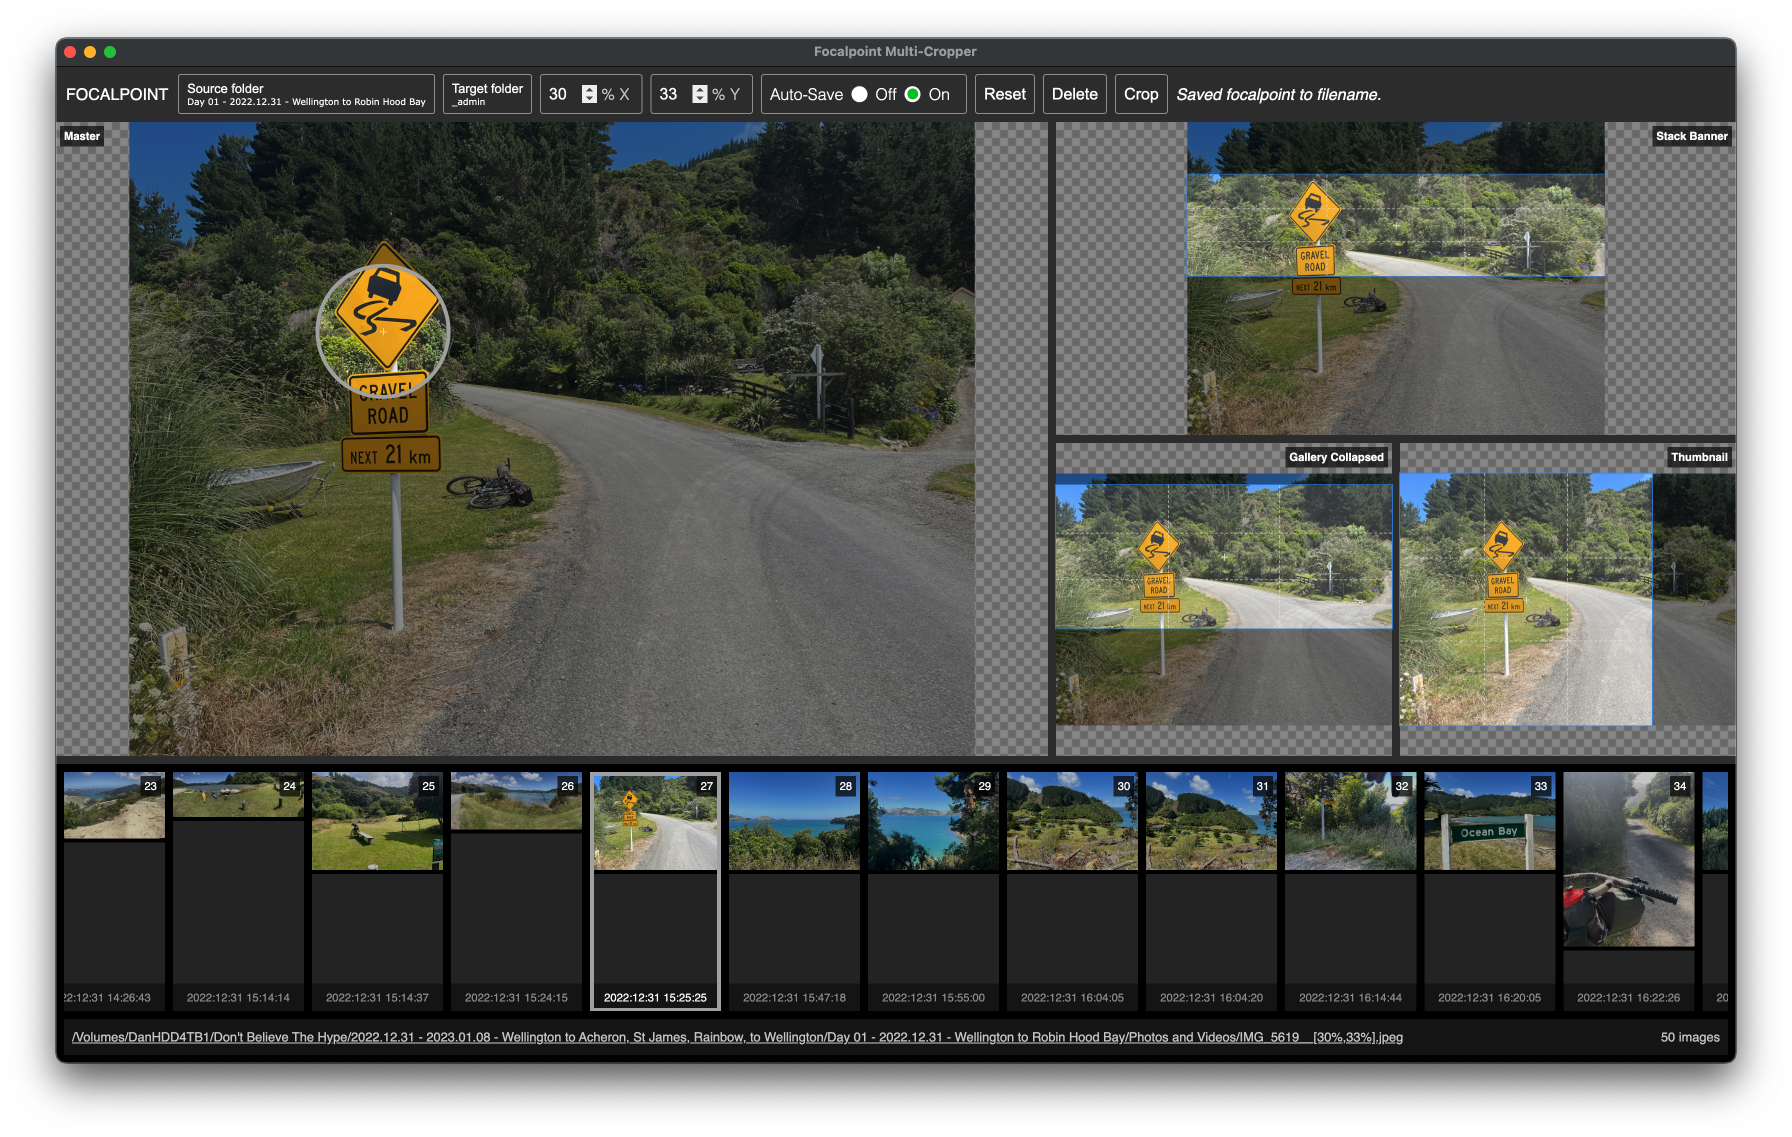
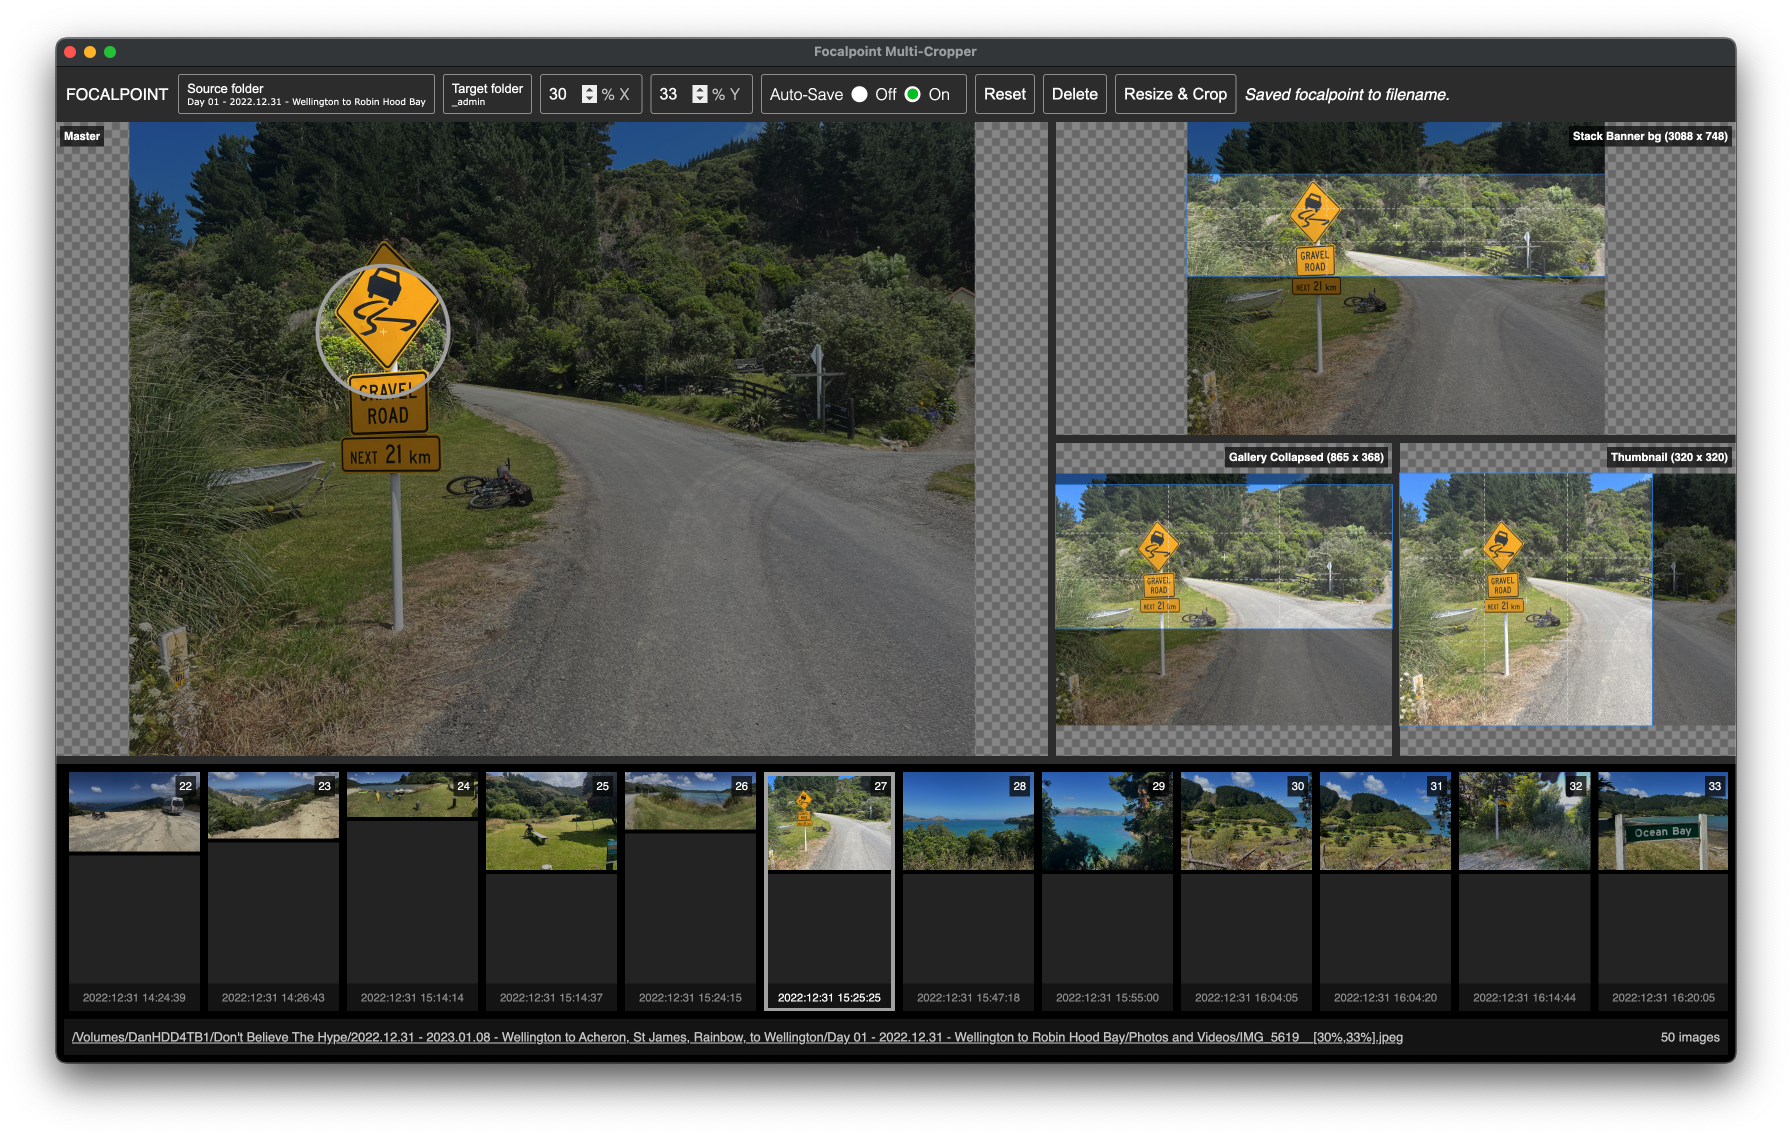
Add support for resize without crop/preview

diff --git a/index.html b/index.html
@@ -45,23 +45,86 @@
               </div> 
               <button type="button" class="control-action" id="reset-focalpoint" disabled>Reset</button>
               <button type="button" class="control-action" id="delete-focalpoint" disabled>Delete</button>
-              <button type="button" class="control-action" id="crop-image" disabled>Crop</button>
+              <button type="button" class="control-action" id="crop-image" disabled>Resize &amp; Crop</button>
             </div>
           </fieldset>
           <p class="control-status-msg" id="control-status"></p>
         </div>
         <div class="grid-croppers" id="croppers">
           <div class="img-container cropper-master">
-            <img alt="" class="cropper-image" data-cropper-aspect-ratio="1:1" data-is-cropper-master="true" data-cropper-label="Master">
+            <!-- image used with interactive cropbox -->
+            <img
+              alt=""
+              class="cropper-image"
+              data-cropper-role="master"
+              data-cropper-label="Master"
+            >
           </div>
-          <div class="img-container cropper-banner">
-            <img alt="" class="cropper-image" data-cropper-aspect-ratio="3088:748" data-cropper-export-suffix="stack-banner-bg" data-cropper-label="Stack Banner">
+          <div class="img-container cropper-banner-bg">
+            <!-- image will be resized to 3088 x whatever, then cropped to 3088 x 748 -->
+            <img
+              alt=""
+              class="cropper-image"
+              data-cropper-action="resizeAndCrop"
+              data-cropper-export-width="3088"
+              data-cropper-export-height="748"
+              data-cropper-export-suffix="stack-banner-bg"
+              data-cropper-label="Stack Banner bg"
+              data-cropper-role="slave"
+            >
+          </div>
+          <div class="img-container cropper-hide">
+            <!-- image will be resized to 320 x whatever -->
+            <img
+              alt=""
+              class="cropper-image"
+              data-cropper-action="resize"
+              data-cropper-export-width="320"
+              data-cropper-export-height="null"
+              data-cropper-export-suffix="stack-banner"
+              data-cropper-label="Stack Banner"
+              data-cropper-role="slave"
+            >
           </div>
           <div class="img-container cropper-collapsed">
-            <img alt="" class="cropper-image" data-cropper-aspect-ratio="865:368" data-cropper-export-suffix="gallery-collapsed" data-cropper-label="Gallery Collapsed">
+            <!-- image will be resized to 865 x whatever, then cropped to 865 x 368 -->
+            <img
+              alt=""
+              class="cropper-image"
+              data-cropper-action="resizeAndCrop"
+              data-cropper-export-width="865"
+              data-cropper-export-height="368"
+              data-cropper-export-suffix="gallery-collapsed"
+              data-cropper-label="Gallery Collapsed"
+              data-cropper-role="slave"
+            >
           </div>
-          <div class="img-container cropper-thumbnail">
-            <img alt="" class="cropper-image" data-cropper-aspect-ratio="320:320" data-cropper-export-suffix="gallery-thumbnail" data-cropper-label="Thumbnail">
+          <div class="img-container cropper-hide">
+            <!-- image will be resized to 865 x whatever -->
+            <img
+              alt=""
+              class="cropper-image"
+              data-cropper-action="resize"
+              data-cropper-export-width="865"
+              data-cropper-export-height="null"
+              data-cropper-export-suffix="gallery-expanded"
+              data-cropper-label="Gallery Expanded"
+              data-cropper-role="slave"
+            >
+          </div>
+          <div class="img-container" cropper-thumbnail>
+            <!-- image will be resized to 320 x whatever, then cropped to 320 x 320 -->
+            <!-- TODO: stack-tour-bg is 600x600 but could share this? -->
+            <img
+              alt=""
+              class="cropper-image"
+              data-cropper-action="resizeAndCrop"
+              data-cropper-export-width="320"
+              data-cropper-export-height="320"
+              data-cropper-export-suffix="gallery-thumbnail"
+              data-cropper-label="Thumbnail"
+              data-cropper-role="slave"
+            >
           </div>
         </div>
       </div>

diff --git a/cypress/e2e/electron-spec.cy.js b/cypress/e2e/electron-spec.cy.js
@@ -14,12 +14,12 @@ describe('template spec', () => {
     cy.get('#croppers').as('croppers');
 
     cy.get('.cropper-master .cropper-image').as('cropperMasterImg');
-    cy.get('.cropper-banner .cropper-image').as('cropperBannerImg');
+    cy.get('.cropper-banner-bg .cropper-image').as('cropperBannerImg');
     cy.get('.cropper-collapsed .cropper-image').as('cropperCollapsedImg');
     cy.get('.cropper-thumbnail .cropper-image').as('cropperThumbnailImg');
 
     cy.get('.cropper-master .cropper-canvas').as('cropperMasterCanvas'); // first
-    cy.get('.cropper-banner .cropper-canvas').as('cropperBannerCanvas');
+    cy.get('.cropper-banner-bg .cropper-canvas').as('cropperBannerCanvas');
     cy.get('.cropper-collapsed .cropper-canvas').as('cropperCollapsedCanvas');
     cy.get('.cropper-thumbnail .cropper-canvas').as('cropperThumbnailCanvas');
 

diff --git a/styles.css b/styles.css
@@ -145,9 +145,13 @@ img {
   width: 100%;
 }
 
-.cropper-banner {
+.cropper-banner-bg {
   grid-area: slave3;
   width: 100%;
+}
+
+.cropper-hide {
+  display: none; /* .cropper-hidden is used by cropperjs */
 }
 
 .editor {
@@ -159,7 +163,7 @@ img {
   background-color: var(--color-bg-image);
 }
 
-.grid-croppers > .img-container > img {
+.grid-croppers > .img-container > .cropper-image {
   visibility: hidden; /* allows presumed dimension calculations without FOUC */
   max-width: 100%;
 }

diff --git a/README.md b/README.md
@@ -4,14 +4,14 @@
 
 ## Features
 
-* **Preview** - Single window containing multiple instances of [cropperjs](https://github.com/fengyuanchen/cropperjs) - one master cropper and one or more slave croppers with user-defined `width:height` proportions
+* **Preview** - Single window containing multiple instances of [cropperjs](https://github.com/fengyuanchen/cropperjs) - one master cropper and one or more slave croppers with user-defined `exportWidth` and `exportHeight` proportions
 * **Load** - Leverage [Electron](https://www.electronjs.org/) to allow for loading of folders of images
 * **Set focalpoint** - Click the master cropper image or use the number inputs to set a focalpoint, slave croppers' crop boxes will automatically follow
 * **Rounding** - Initial focalpoint uses unrounded values, after a visual pause these are rounded to integers for easier storage
 * **Storage** - Toggle on auto-save to write a non-default focalpoint to the image filename as a resolution-independent percentage of its width and height (integers), e.g. `foo__[40%,37%].jpg`
 * **Reset** - Remove user changes and reapply the focalpoint stored in the image filename, or the defaults
 * **Delete** - Delete the focalpoint and remove non-default focalpoint from the image filename
-* **Crop** - Use [gm](https://github.com/aheckmann/gm) to generate crops from the slave croppers' crop boxes
+* **Resize & Crop** - Use [gm](https://github.com/aheckmann/gm) to `resizeAndCrop` from the slave croppers' crop boxes, and `resize` from the hidden non-cropper inclusions
 * **Restore** - Settings are restored when reopening the Electron app
 
 ## Usage
@@ -47,6 +47,13 @@ Cypress does not have full support for Electron, so tests are run in-browser and
 
 ```js
 npm run test
+```
+
+### Debug
+
+```js
+// inspect the current state of crCroppersUi
+document.getElementById('croppers').crCroppersUi
 ```
 
 ## Research
